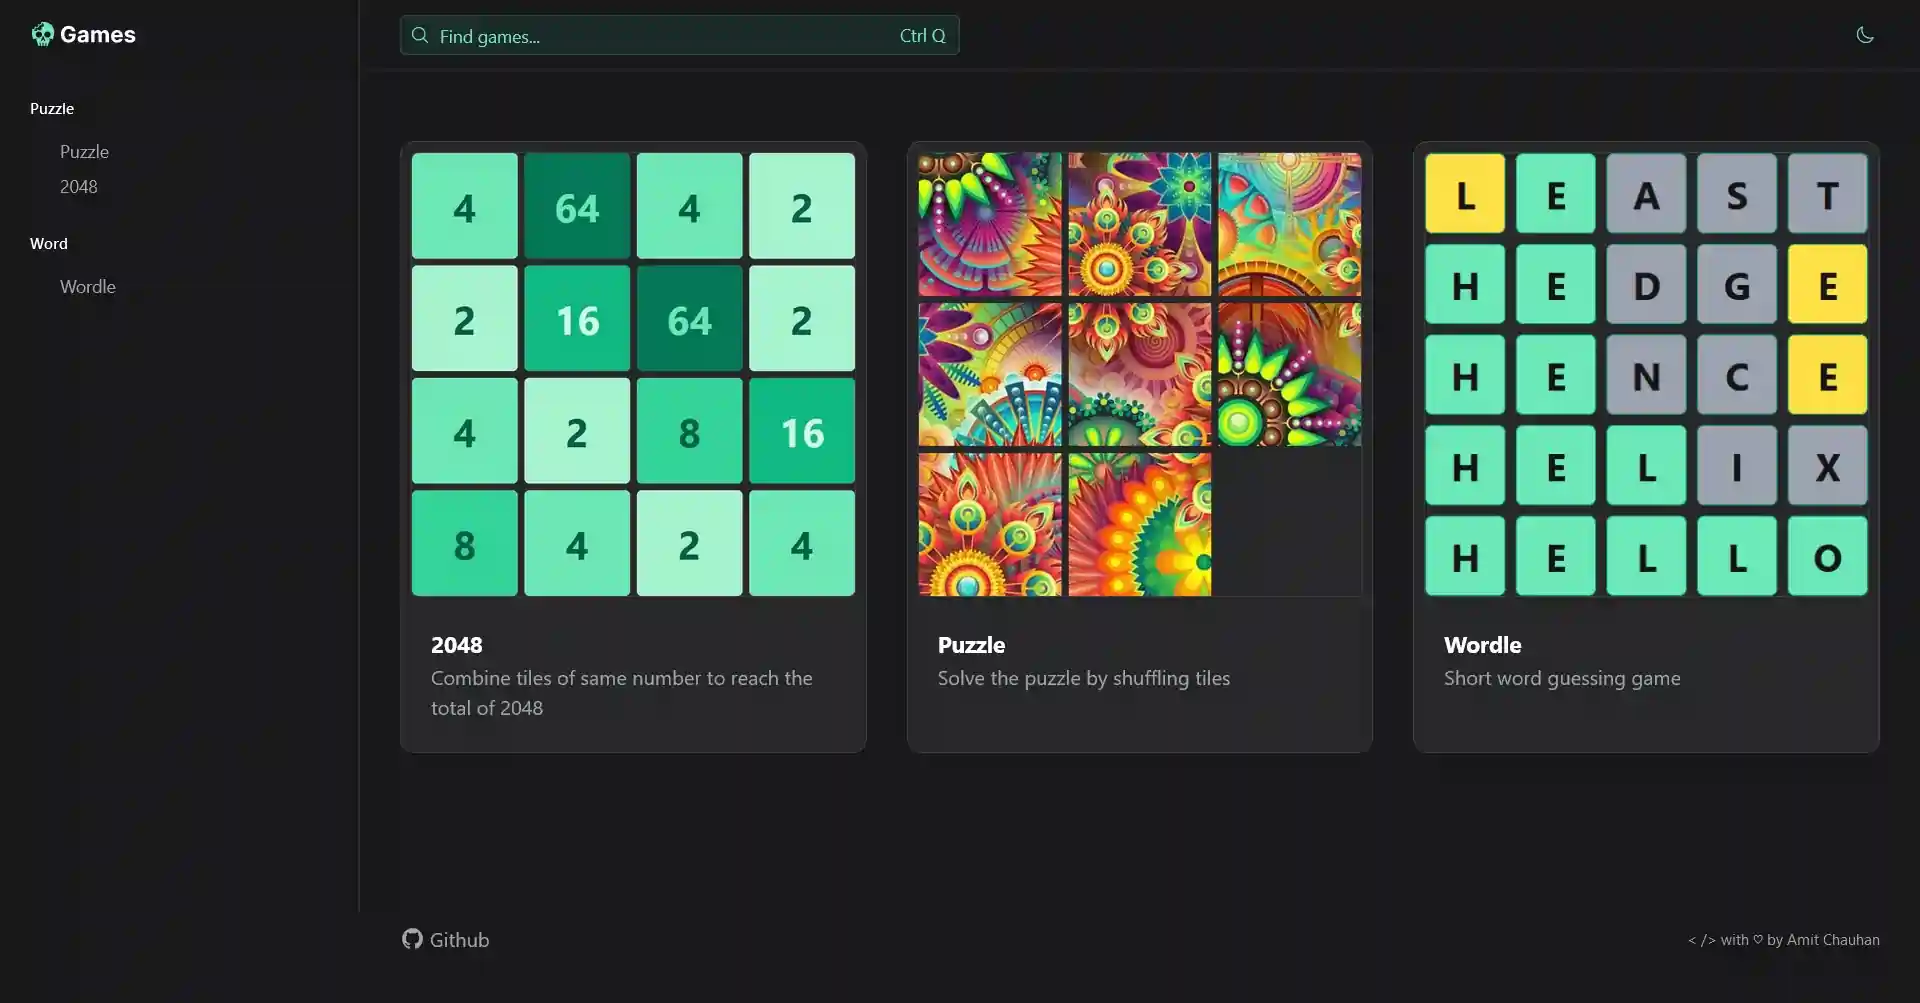
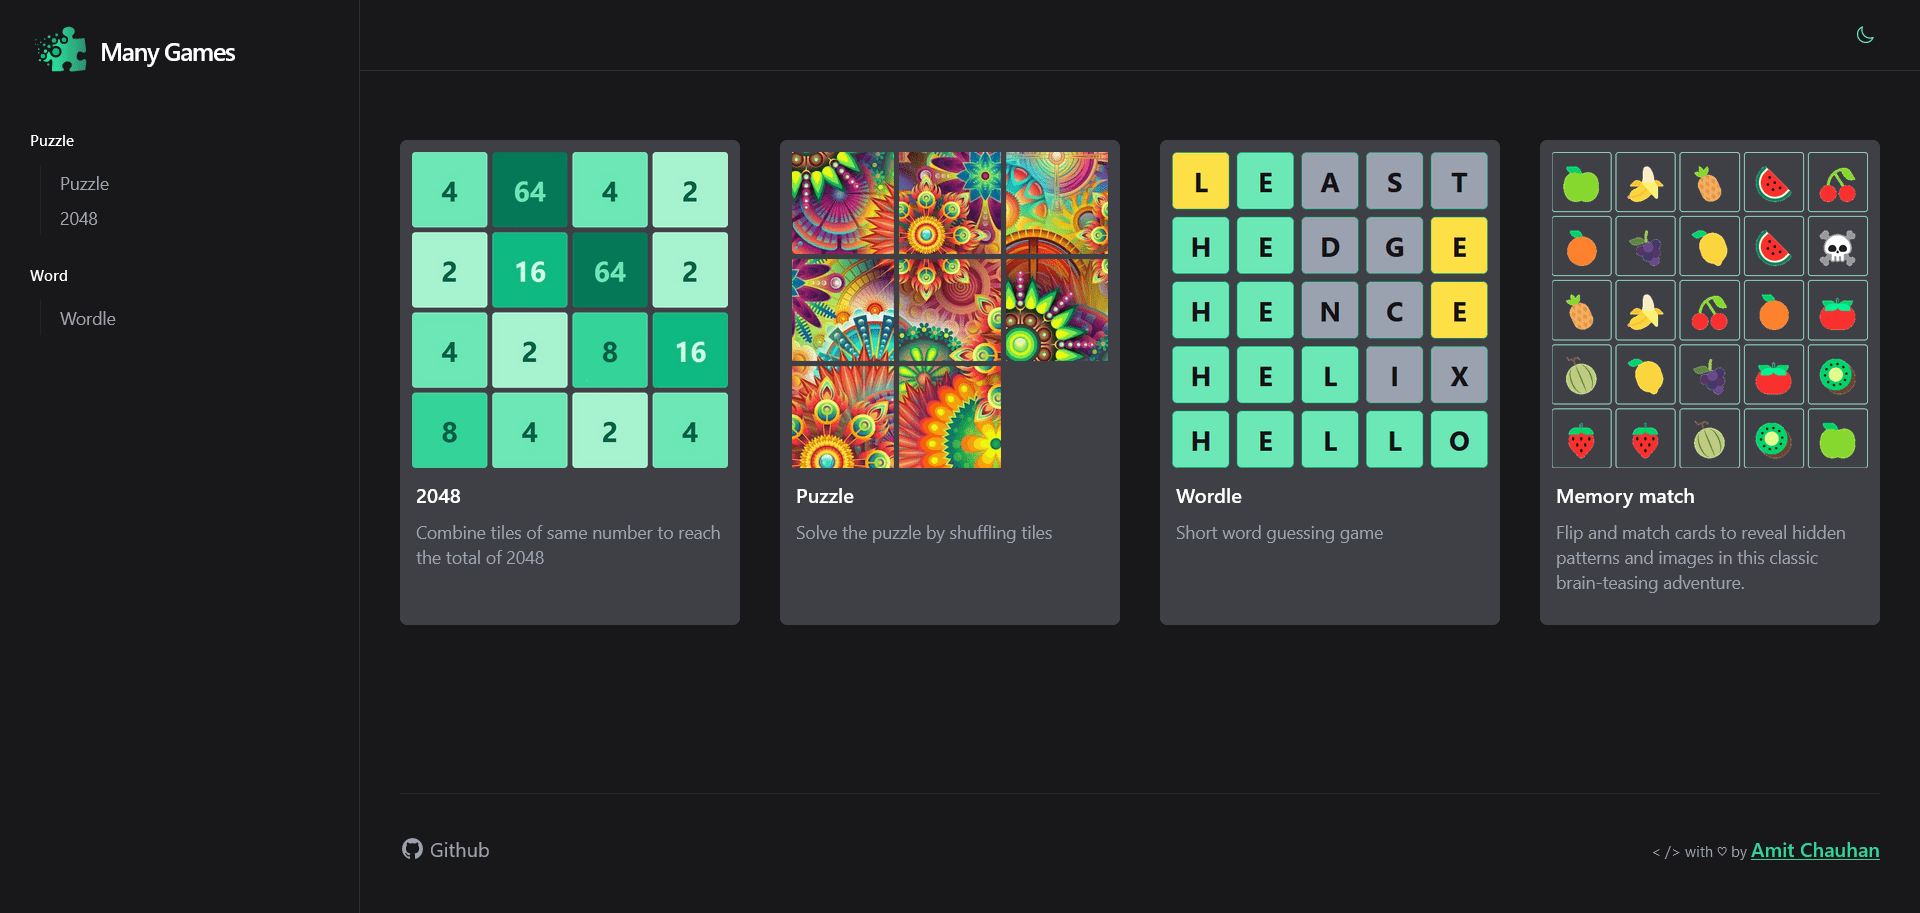
update hero project list and image

diff --git a/src/components/data/projects.ts b/src/components/data/projects.ts
@@ -1,9 +1,3 @@
-import covidTracker from "../../../public/images/projects/covidTracker.webp";
-import kanbanBoardLight from "../../../public/images/projects/kanbanLight.webp";
-import kanbanBoardDark from "../../../public/images/projects/kanbanDark.webp";
-import ThreeDView from "../../../public/images/projects/3DView.webp";
-import manyGamesLight from "../../../public/images/projects/manyGames.webp";
-import manyGamesDark from "../../../public/images/projects/manyGamesDark.webp";
 import { ProjectCard } from "../ProjectCard";
 import { ProjectData } from "../ProjectList";
 
@@ -15,7 +9,7 @@ export const PROJECTS: ProjectCard[] = [
     description:
       "Get all stats related to covid-19 through this applicaiton made using Reactjs and Material UI. It shows geographical impact of covid-19 using a map powered by React leaflet.",
     image: {
-      url: covidTracker,
+      url: "/images/projects/covidTracker.webp",
       alt: "Covid Tracker Image",
     },
     sourceCode: "https://github.com/BUMBAIYA/CovidTracker",
@@ -28,10 +22,10 @@ export const PROJECTS: ProjectCard[] = [
     description:
       "Kanban board that help keep track of your projects and tasks made usign Reactja and Tailwindcss. Fully responsive and keyboard assecible made using Reactjs and React-beautifull-dnd library",
     image: {
-      url: kanbanBoardLight,
+      url: "/images/projects/kanbanLight.webp",
       alt: "Kanban board Image",
     },
-    darkImageUrl: kanbanBoardDark,
+    darkImageUrl: "/images/projects/kanbanDark.webp",
     sourceCode: "https://github.com/BUMBAIYA/kanban",
     websiteLink: "https://kannban-board.vercel.app/",
   },
@@ -42,7 +36,7 @@ export const PROJECTS: ProjectCard[] = [
     description:
       "Game engine from scratch using Java and Opengl. I learn new languages by making engaging and coersive project that always have my interest. This engine includes 3D model loading, shaders, water rendering, shadow rendering, skybox and text rendering.",
     image: {
-      url: ThreeDView,
+      url: "/images/projects/3DView.webp",
       alt: "3D View Image",
     },
     sourceCode: "https://github.com/BUMBAIYA/3DView",
@@ -54,10 +48,10 @@ export const PROJECTS: ProjectCard[] = [
     description:
       "Website made using Reactjs, tailwindcss and Scss. Many small word and puzzle games are hosted on this website. This project demanded very high programming skills and countless hours of debugging as there were many edge cases in the games.",
     image: {
-      url: manyGamesLight,
+      url: "/images/projects/manygamesLight.webp",
       alt: "Many games Image",
     },
-    darkImageUrl: manyGamesDark,
+    darkImageUrl: "/images/projects/manygamesDark.webp",
     sourceCode: "https://github.com/BUMBAIYA/manygames",
     websiteLink: "https://manygames.vercel.app/",
   },
@@ -66,39 +60,40 @@ export const PROJECTS: ProjectCard[] = [
 export const PROJECT_LIST: ProjectData[] = [
   {
     index: 0,
-    title: "Many Games",
+    title: "Json Tree",
     href: "#",
-    tags: [
-      "React",
-      "Vite",
-      "Tainwindcss",
-      "Fully responsive",
-      "API",
-      "SCSS",
-      "Redux",
-      "React Router",
-    ],
-    image: "/images/projects/manyGames.webp",
+    tags: ["Nextjs", "Tailwindcss", "Monaco Editor", "Vercel"],
+    image: {
+      LIGHT: "/images/projects/jsontreeLight.webp",
+      DARK: "/images/projects/jsontreeDark.webp",
+    },
   },
   {
     index: 1,
-    title: "Kanban",
+    title: "Many Games",
     href: "#",
-    tags: ["Nextjs", "Vite", "Tailwindcss", "Fully responsive", "React DND"],
-    image: "/images/projects/kanbanLight.webp",
+    tags: [
+      "Reactjs",
+      "Tailwindcss",
+      "Scss",
+      "Vite",
+      "React-router-dom",
+      "Redux",
+      "Vercel",
+    ],
+    image: {
+      LIGHT: "/images/projects/manygamesLight.webp",
+      DARK: "/images/projects/manygamesDark.webp",
+    },
   },
   {
     index: 2,
-    title: "Covid Tracker",
+    title: "Kanban",
     href: "#",
-    tags: [
-      "React",
-      "Styled Component",
-      "Fully responsive",
-      "API",
-      "MUI",
-      "Map",
-    ],
-    image: "/images/projects/covidTracker.webp",
+    tags: ["Reactjs", "Vite", "Tailwindcss", "Vercel", "Zustand", "React DND"],
+    image: {
+      LIGHT: "/images/projects/kanbanLight.webp",
+      DARK: "/images/projects/KanbanDark.webp",
+    },
   },
 ];

diff --git a/src/components/Project.tsx b/src/components/Project.tsx
@@ -16,7 +16,7 @@ type Project = {
 export default function Project(props: Project) {
   const [currentImage, setCurrentImage] = useState<number>(0);
 
-  const [images, setImages] = useState<string[]>(
+  const [images, setImages] = useState<ProjectData["image"][]>(
     generateImageData(props.projects),
   );
 
@@ -31,7 +31,7 @@ export default function Project(props: Project) {
         <div className="relative right-0 top-0 hidden lg:block">
           <AnimatePresence>
             <motion.div
-              key={images[currentImage]}
+              key={props.projects[currentImage].title}
               initial={{ x: "100%", opacity: 0 }}
               animate={{
                 x: "55%",
@@ -48,13 +48,23 @@ export default function Project(props: Project) {
               className="absolute right-0 top-0 -z-50"
             >
               <Image
-                src={images[currentImage]}
+                src={images[currentImage].LIGHT}
                 unoptimized
                 width={100}
                 height={100}
-                className="h-auto w-1/2 rounded-lg border border-zinc-300 shadow-lg dark:border-teal-400/50"
+                className="h-auto w-1/2 rounded-lg border border-zinc-300 shadow-lg dark:hidden dark:border-teal-400/50"
                 alt={`project ${currentImage}`}
               />
+              {images[currentImage].DARK !== undefined && (
+                <Image
+                  src={images[currentImage].DARK!}
+                  unoptimized
+                  width={100}
+                  height={100}
+                  className="hidden h-auto w-1/2 rounded-lg border border-zinc-300 shadow-lg dark:inline-block dark:border-teal-400/20 dark:shadow-lg dark:shadow-emerald-400/5"
+                  alt={`project ${currentImage}`}
+                />
+              )}
             </motion.div>
           </AnimatePresence>
         </div>

diff --git a/src/pages/about.tsx b/src/pages/about.tsx
@@ -40,15 +40,15 @@ export default function About() {
             <FadeUp key="description-1" duration={0.6} delay={0.2}>
               <p className="mt-8 text-base font-medium text-zinc-900 dark:text-zinc-300 sm:text-lg md:text-lg">
                 I turn vision into reality with code. Whether I&apos;m working
-                on a website, mobile app, or other digital product, I bring my
-                commitment to design excellence and user-centered thinking to
-                every project I work on.
+                on a website or any digital product, I bring my commitment to
+                design excellence and user-centered thinking to every project I
+                work on.
               </p>
             </FadeUp>
             <FadeUp key="description-2" duration={0.6} delay={0.4}>
               <p className="mt-8 text-base font-medium text-zinc-900 dark:text-zinc-300 sm:text-lg md:text-lg">
-                Explore my latest projects and blogs, showcasing my expertise in
-                Reactjs, Nextjs and web development.
+                Explore my latest projects showcasing my expertise in Reactjs,
+                Nextjs, Javascript, Typescript and web development.
               </p>
             </FadeUp>
             <FadeRight

diff --git a/src/components/ProjectList.tsx b/src/components/ProjectList.tsx
@@ -7,7 +7,10 @@ export type ProjectData = {
   title: string;
   href: string;
   tags: string[];
-  image: string;
+  image: {
+    LIGHT: string;
+    DARK?: string;
+  };
 };
 
 export type ProjectList = {
